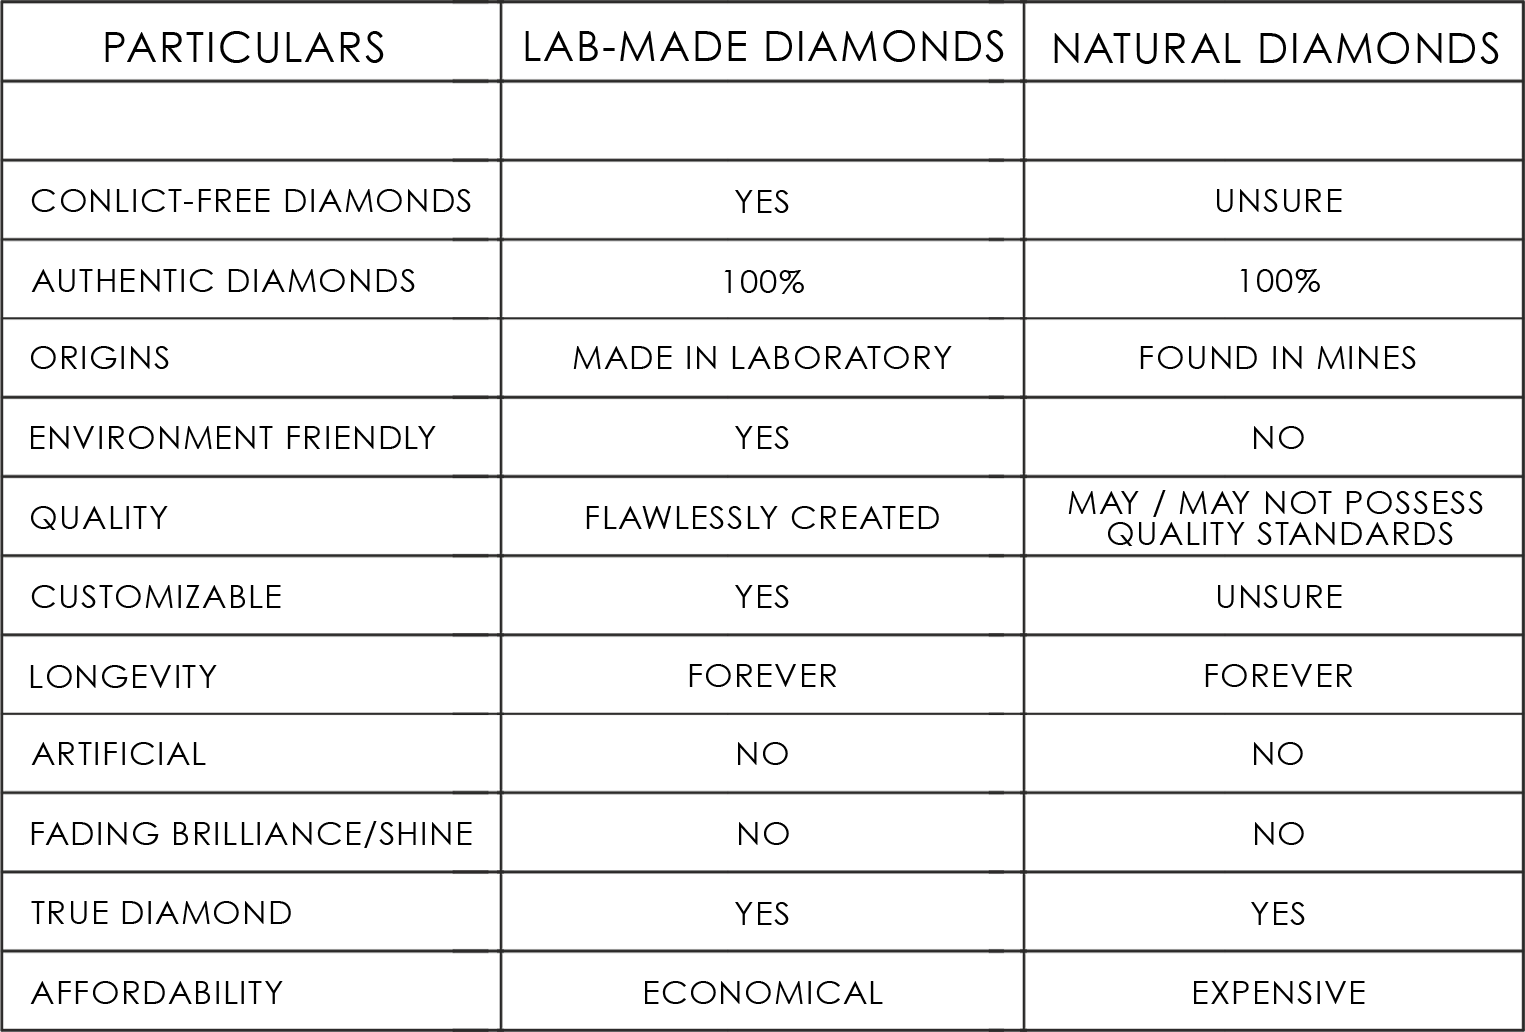
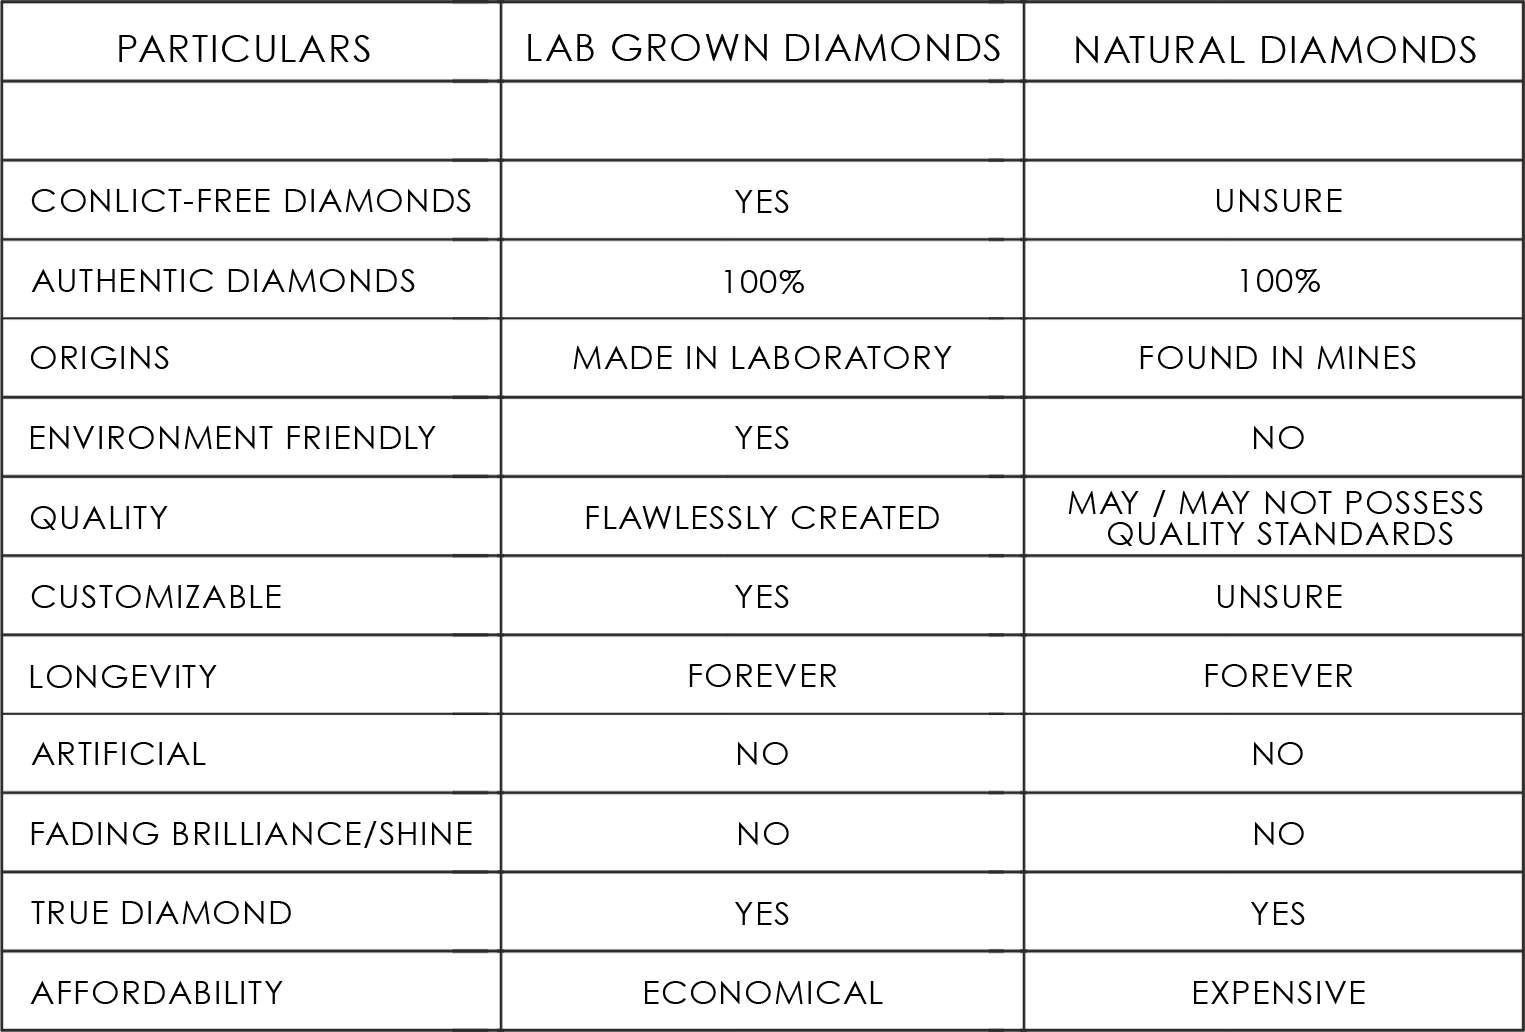
DIA: Fix Images

Changed region(s): [[0.339, 0.031, 0.9862, 0.062], [0.0616, 0.031, 0.2466, 0.062]]

diff --git a/src/pages/Home.js b/src/pages/Home.js
@@ -40,7 +40,7 @@ const Home = () => {
             <h2>AN ETHICALLY NURTURED BEAUTY  WITH A SUSTAINABLE PROCESS.</h2>
           </div>
           <div className='main_banner_text_r mt-3'>
-            <p>Lab created Diamond have the same Attributes of real Diamonds, Physically, Chemically and Optically. This Diamonds are Exquisite, Poket - friendly and are made Righteously, Causing no harm to Environment.  </p>
+            <p>Lab created Diamond have the same Attributes of real Diamonds, Physically, Chemically and Optically. This Diamonds are Exquisite, Pocket - friendly and are made Righteously, Causing no harm to Environment.  </p>
           </div>
           <div className='readmore_main_r mt-5'>
             <a href='About'>Read More</a>
@@ -119,7 +119,7 @@ const Home = () => {
                   <img src={rough} />
                 </div>
                 <div className='name_img'>
-                  <h4>MAN-MADE GROWN DIAMOND ROUGH</h4>
+                  <h4>LAB GROWN DIAMOND ROUGH</h4>
                 </div>
               </div>
             </Col>
@@ -130,7 +130,7 @@ const Home = () => {
                   <img src={manmade} />
                 </div>
                 <div className='name_img'>
-                  <h4 className='m_0'>MAN-MADE DIAMOND</h4>
+                  <h4 className='m_0'>POLISHED LABGROWN DIAMOND</h4>
                 </div>
               </div>
             </Col>

diff --git a/src/App.css b/src/App.css
@@ -510,6 +510,7 @@
         font-size: 20px;
         margin-top: 2rem;
         margin-bottom: 0px;
+        text-align: center;
     }
     .birth_order_img{
         order: 1 !important;
@@ -519,6 +520,7 @@
     }
     .brith_text p{
         font-size: 16px;
+        text-align: center;
         margin-top: 1rem !important;
     }
     .brith_text p span{
@@ -536,6 +538,7 @@
         font-size: 20px;
         margin-top: 2rem;
         margin-bottom: 0px;
+        text-align: center;
     }
     .birth_order_img{
         order: 1 !important;
@@ -546,6 +549,7 @@
     .brith_text p{
         font-size: 16px;
         margin-top: 1rem !important;
+        text-align: center;
     }
     .brith_text p span{
         font-size: 17px;

diff --git a/src/css/about.css b/src/css/about.css
@@ -121,6 +121,7 @@
     }
     .vision_datil p{
         font-size: 16px;
+        text-align: center;
     }
     .our_misson{
         padding-bottom: 3rem;
@@ -174,6 +175,7 @@
     }
     .vision_datil p{
         font-size: 16px;
+        text-align: center;
     }
     .our_misson{
         padding-bottom: 3rem;
